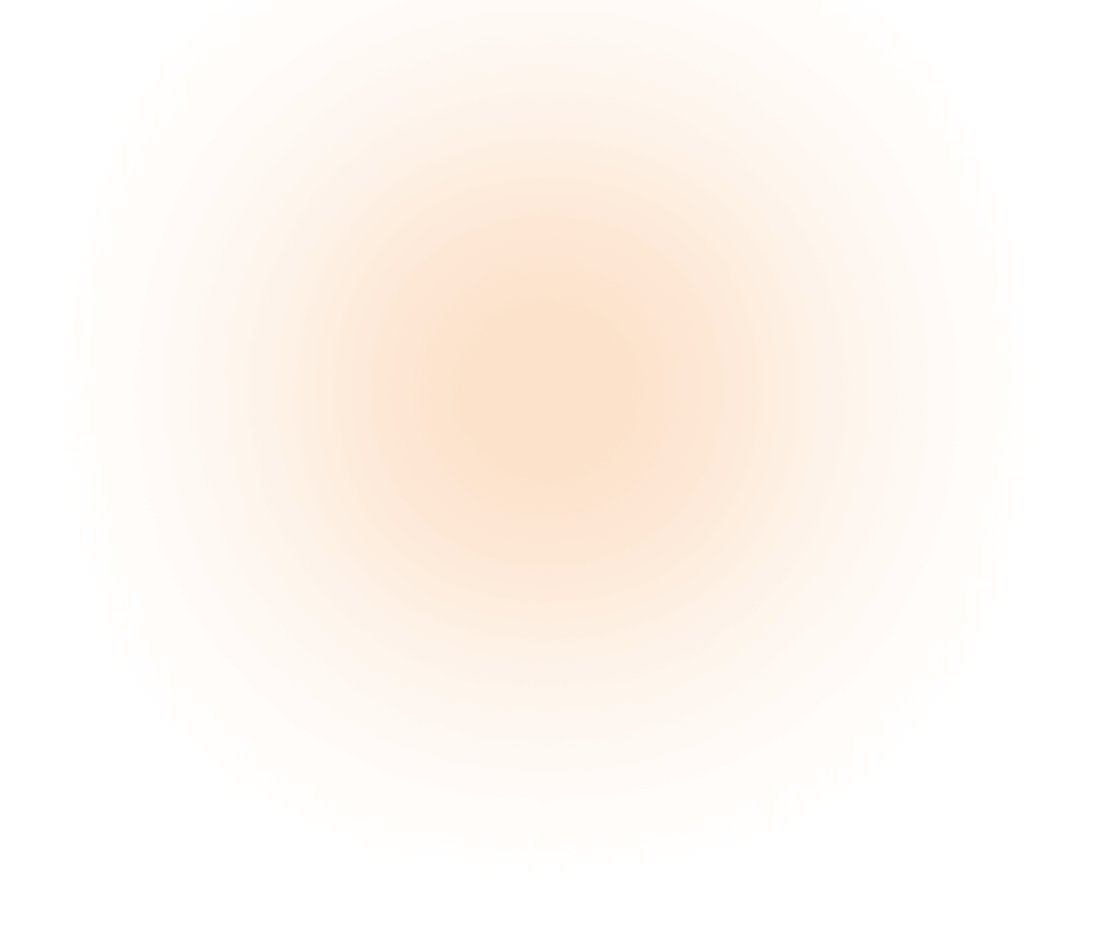
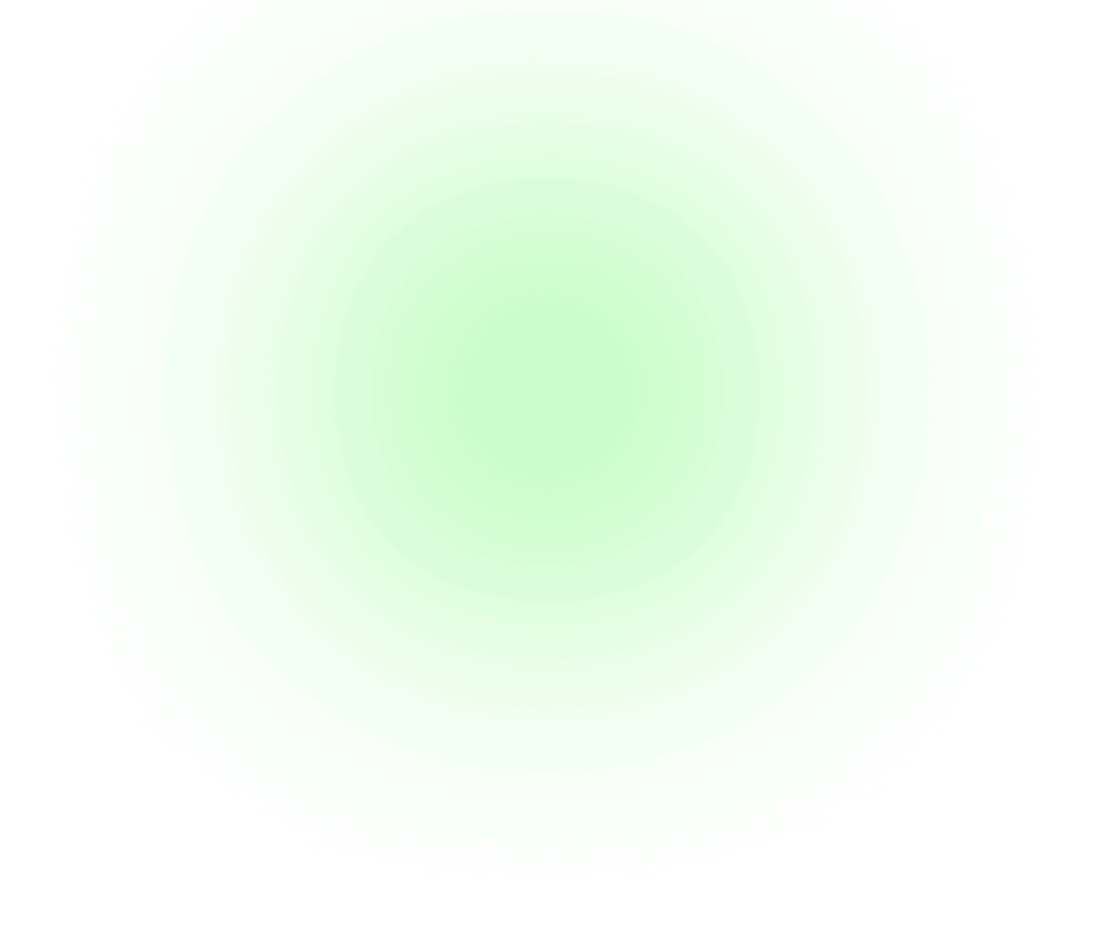
updated color scheme from primarily orange to primarily green

Changed region(s): [[0.2433, 0.1233, 0.7299, 0.678]]

diff --git a/assets/css/style.css b/assets/css/style.css
@@ -3464,7 +3464,7 @@
 	padding:40px 35px;
 	border-radius:8px;
 	background-color:var(--main-color);
-	box-shadow:-10px -10px 0px rgba(244,131,31,0.20);
+	box-shadow:-10px -10px 0px rgba(13, 161, 72,0.20);
 }
 
 .booking-one_counter:before{
@@ -3475,7 +3475,7 @@
 	right:20px;
 	bottom:20px;
 	border-radius:8px;
-	background-color:rgba(244,131,31,0.20);
+	background-color:rgba(13, 161, 72,0.20);
 }
 
 .booking-one_counter-title{

diff --git a/assets/css/global.css b/assets/css/global.css
@@ -61,9 +61,9 @@
 
 :root {
 	
-	/* #F4831F in decimal RGB */
-	--main-color: rgb(244,131,31);
-	--main-color-rgb:244,131,31;
+	/* #0da148 in decimal RGB */
+	--main-color: rgb(13, 161, 72);
+	--main-color-rgb:13, 161, 72;
 	
 	/* #08C76A in decimal RGB */
 	--color-two: rgb(8,199,106);
